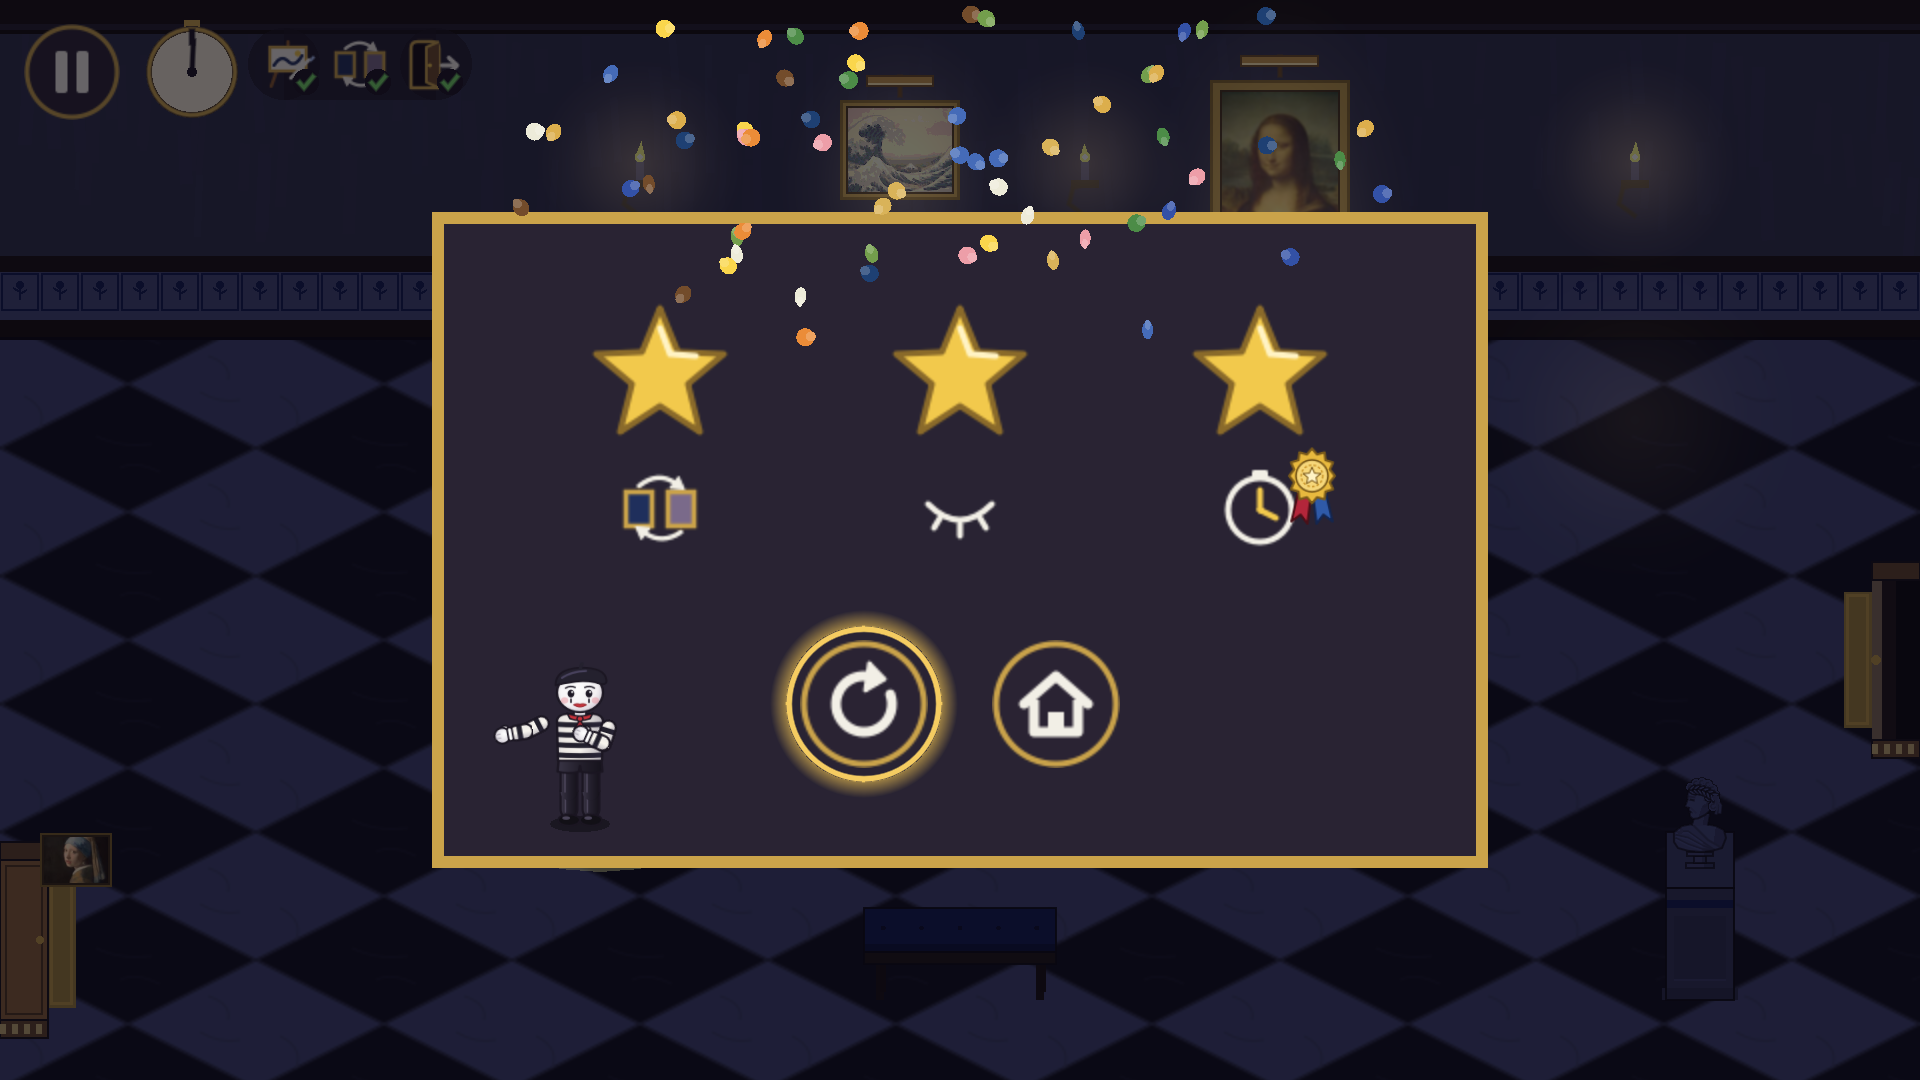
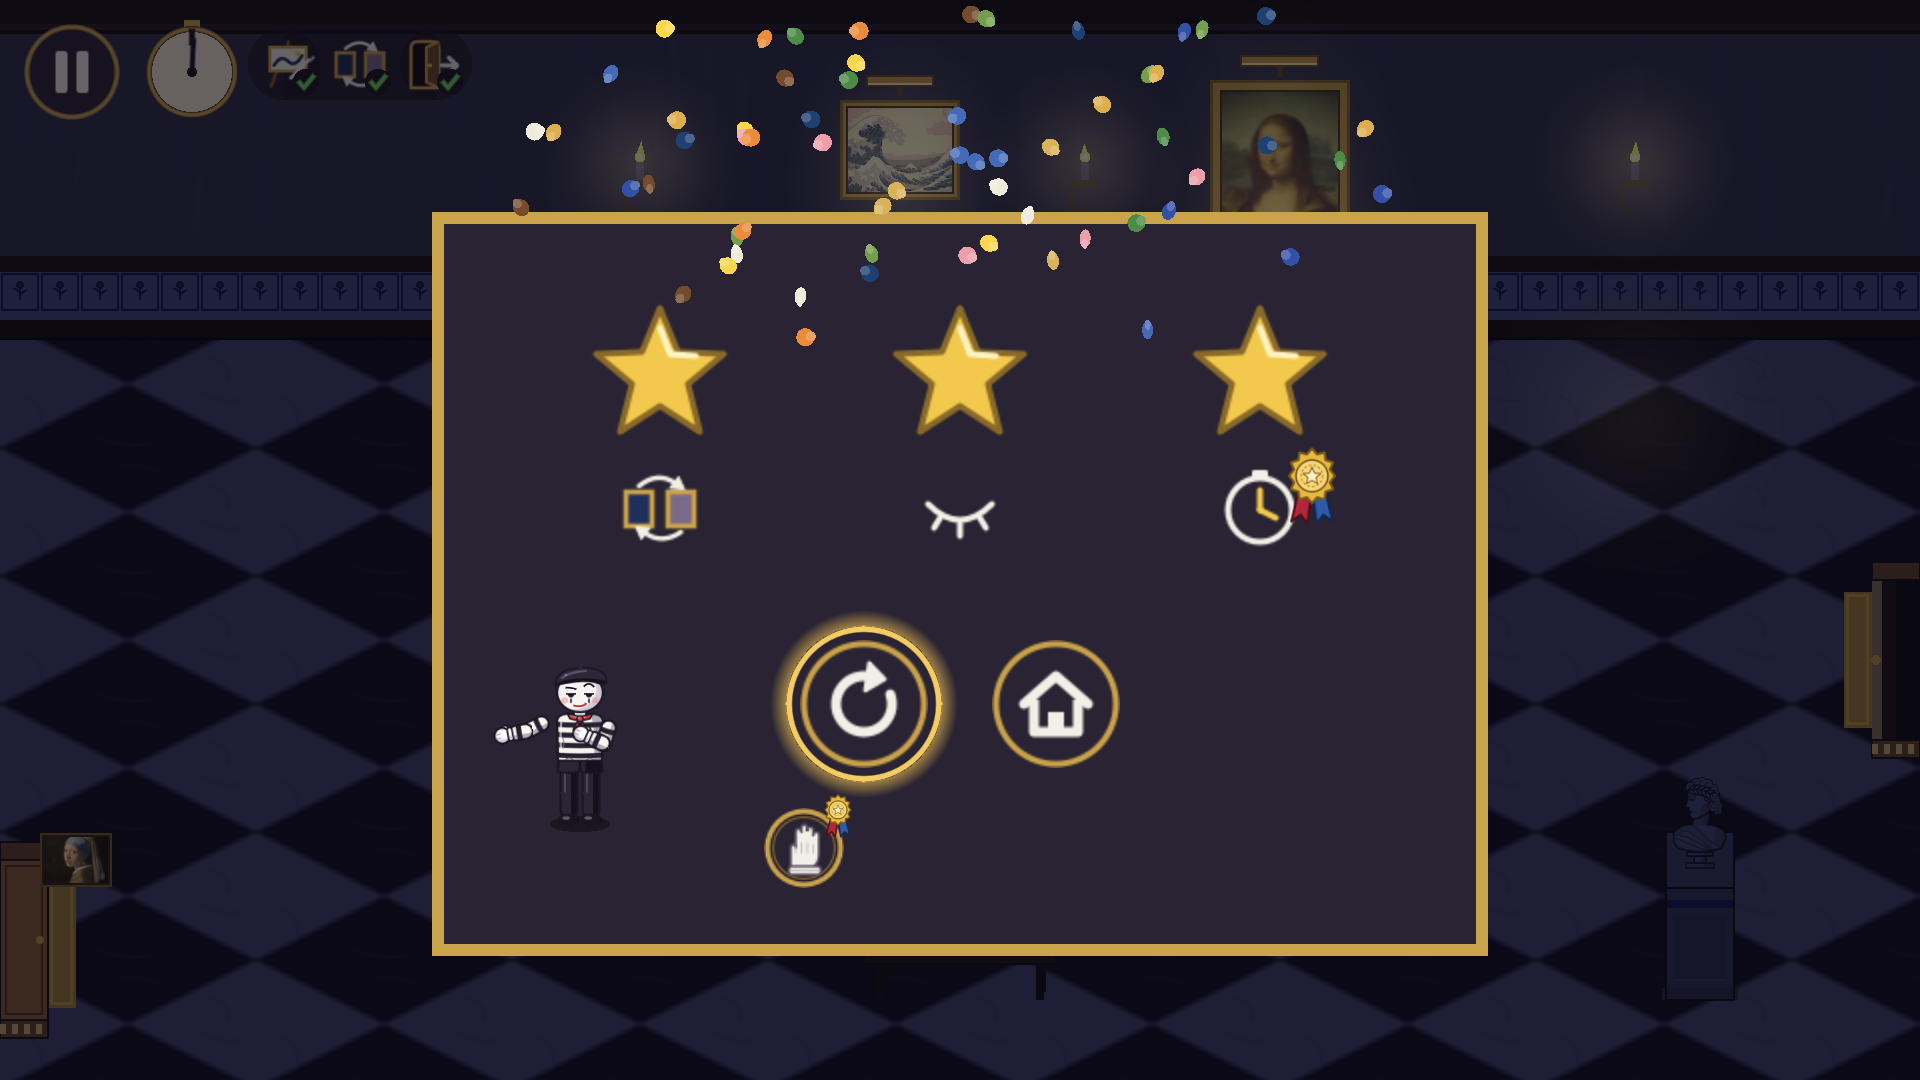
docs(submission): recapture screenshots, cover and demo for the fun pass
All 13 screenshots retaken with the new character art, HUD and challenge badges;
three new: the power bar with the ball's reach, the invisible box, the finale.
The cover is redrawn from the finale room. The 31.5 s demo shows the ball, rope
and box, the two-gap lures and the finale (build/, not committed).

Claude-Session: https://claude.ai/code/session_01LnW7A8GppA7riq12AojToP

Changed region(s): [[0.2188, 0.7333, 0.7812, 0.8861], [0.2812, 0.6417, 0.3125, 0.7028]]

diff --git a/SUBMISSION.md b/SUBMISSION.md
@@ -13,8 +13,8 @@ Everything between the two rules below is the public page; paste it as is.
 - **Embed options:** viewport 960 x 540, fullscreen button on, "SharedArrayBuffer support" off. Tick "Mobile friendly" and choose landscape orientation.
 - **Classification:** Game. Genre: Puzzle. Tags: stealth, heist, art, museum, painting, mime, no-text, mobile, touch, godot.
 - **Cover image:** `submission/cover.png` (630 x 500).
-- **Screenshots:** `submission/1-title.png` to `submission/13-sketch.png`, in that order (1920 x 1080, landscape).
-- **Trailer / gameplay video:** `build/afterhours_demo.mp4` (32.5 s; itch takes a YouTube or Vimeo link, so upload it there first, or attach it to the jam post).
+- **Screenshots:** `submission/1-title.png` to `submission/16-finale.png`, in that order (1920 x 1080, landscape).
+- **Trailer / gameplay video:** `build/afterhours_demo.mp4` (31.5 s; itch takes a YouTube or Vimeo link, so upload it there first, or attach it to the jam post).
 - **Jam:** submit the page to the jam; it uses the optional theme "Great Works of Art" and the mandatory restriction "No Text".
 
 ---
